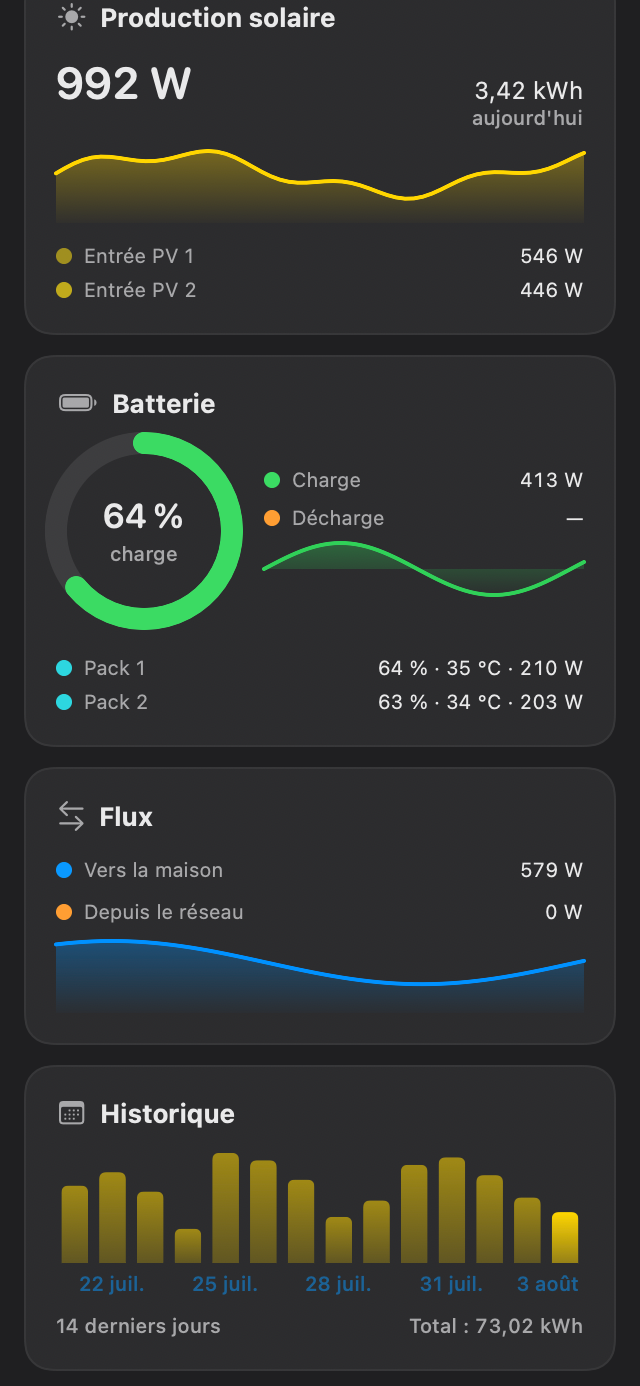
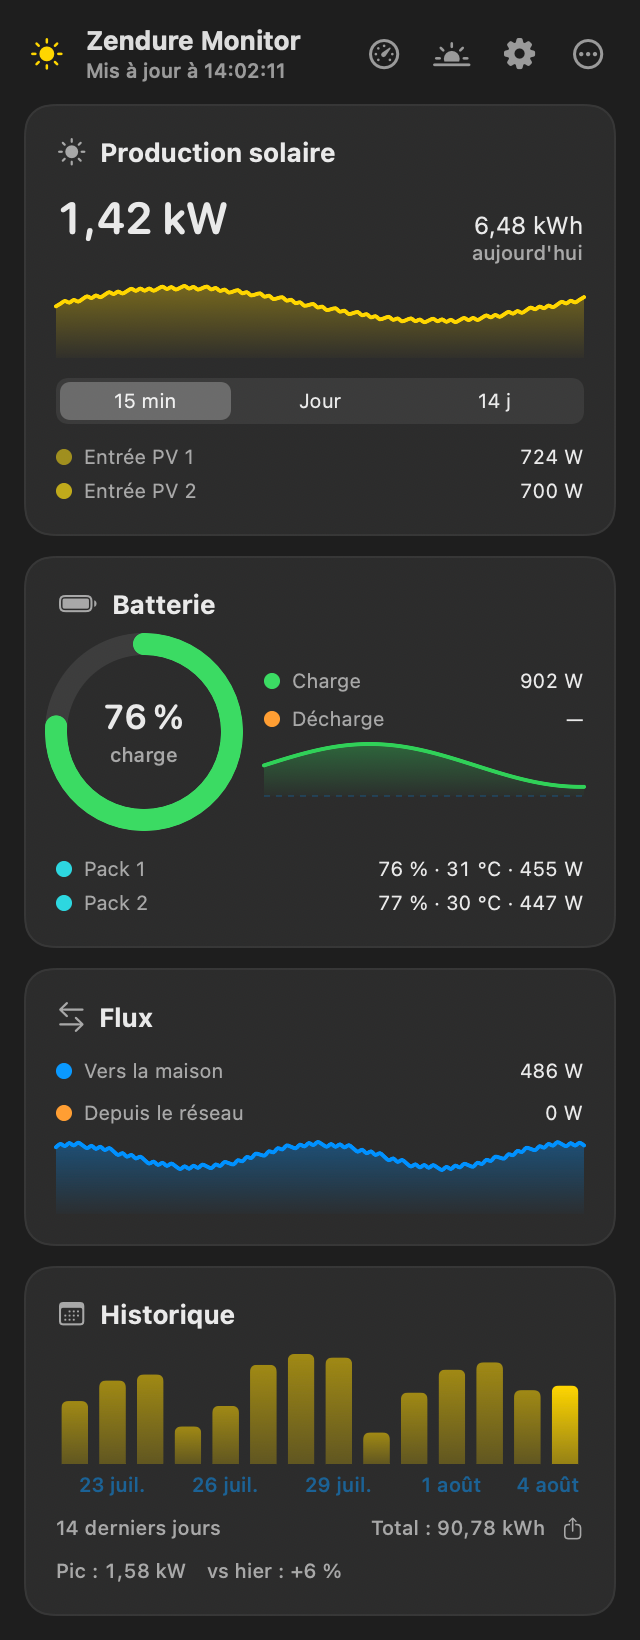
docs: refresh README and landing page, regenerate screenshots, add Sun window shots
- new screenshots rendered from realistic mock data (ImageRenderer
  harness): Juicy-style panel light/dark, hub-centric dashboard, and the
  new Sun window (docs/sun.png)
- README: 'New in 1.5' summary, Sun window section, updated source
  layout with tests/CI, roadmap v1.5 done + v1.6/v2.0 outlook
- landing page: feature cards for the period selector/stats, energy-flow
  dashboard and Sun window, new screenshots section
- split SunView into SunView + SunContent (ScrollView interiors are not
  renderable by ImageRenderer - same pattern as DashboardContent)

diff --git a/docs/index.html b/docs/index.html
@@ -149,8 +149,8 @@
   <p class="fineprint">Free &amp; open source (MIT) · macOS 14+ · signed &amp; notarized DMG · Sparkle auto-updates · 100% local</p>
 
   <figure class="shot">
-    <img src="panel-dark.png" alt="Zendure Monitor panel in dark theme: solar production, battery state of charge with a ring gauge, output to the home, grid input and per-MPPT PV detail">
-    <figcaption>Click the menu bar item for the full picture — production, state of charge, energy flows and per-MPPT detail.</figcaption>
+    <img src="panel-dark.png" alt="Zendure Monitor panel in dark theme: header with icon actions, solar production with a period selector, battery state of charge with a ring gauge, energy flows and 14-day history">
+    <figcaption>Click the menu bar item for the full picture — production, state of charge, energy flows, history and stats.</figcaption>
   </figure>
 </header>
 
@@ -167,7 +167,20 @@
     <div class="card">
       <h3>📊 The full panel</h3>
       <p>Battery state of charge, charge and discharge power, output to the home, grid input,
-      per-MPPT PV input, today's solar energy, and per-pack SOC and temperature.</p>
+      per-MPPT PV input, today's solar energy, per-pack SOC and temperature — with a
+      15 min / day / 14 days selector, daily peak and a vs-yesterday comparison.</p>
+    </div>
+    <div class="card">
+      <h3>🔀 Energy-flow dashboard</h3>
+      <p>A dashboard window with a live diagram: the SolarFlow at the center, panels, batteries,
+      public grid, home and the off-grid outlet around it. Links animate only when energy
+      actually flows, with the wattage on each link — plus savings estimates in € and CO₂.</p>
+    </div>
+    <div class="card">
+      <h3>🌅 Sun window</h3>
+      <p>Sunrise, sunset, solar noon and elevation computed locally (NOAA algorithm — nothing
+      leaves your Mac), the sun's path overlaid with today's production, and a clear-sky
+      theoretical output based on your panels' peak power.</p>
     </div>
     <div class="card">
       <h3>🧩 macOS widget</h3>
@@ -185,11 +198,25 @@
       multi-day trends, whatever you feel like plotting yourself.</p>
     </div>
     <div class="card">
-      <h3>🔔 Low-battery alerts</h3>
-      <p>An optional notification when the state of charge drops below a threshold you choose.
-      Plus launch at login, a theme override, and a UI localized in French and English.</p>
+      <h3>🔔 Smart notifications</h3>
+      <p>Optional alerts: battery low or full, unexpected grid draw while the sun is shining, and
+      daily production records. Plus launch at login, a theme override, an upfront permissions
+      check, and a UI localized in French and English.</p>
     </div>
   </div>
+</section>
+
+<section class="wrap">
+  <h2>The <span class="em">dashboard</span> and the Sun window</h2>
+  <p class="lead">A dedicated window for the whole picture — and another one for the sun itself.</p>
+  <figure class="shot" style="max-width:760px">
+    <img src="dashboard.png" alt="Zendure Monitor dashboard: hub-centric energy-flow diagram with the SolarFlow at the center and panels, batteries, public grid, home and off-grid outlet as peripherals, plus production, battery, device and history cards">
+    <figcaption>The energy-flow diagram: links animate only when energy actually flows, with live wattage.</figcaption>
+  </figure>
+  <figure class="shot" style="max-width:520px; margin-top:32px">
+    <img src="sun.png" alt="Zendure Monitor Sun window: local ephemerides (sunrise, sunset, solar noon, elevation), the sun path overlaid with today's production, and a clear-sky theoretical output estimate">
+    <figcaption>The Sun window — 100% local NOAA ephemerides, today's production on the sun's path, theoretical output.</figcaption>
+  </figure>
 </section>
 
 <section class="wrap">

diff --git a/Sources/SunView.swift b/Sources/SunView.swift
@@ -4,6 +4,20 @@ import SwiftUI
 /// la production du jour, et productible théorique ciel clair. Séparée du
 /// tableau de bord — qui reste un tableau de bord.
 struct SunView: View {
+    var body: some View {
+        ScrollView {
+            SunContent()
+        }
+        .frame(minWidth: 480, idealWidth: 540, minHeight: 560, idealHeight: 680)
+        .navigationTitle(Text("Zendure Monitor — Soleil"))
+        .onAppear { WindowPolicy.retain() }
+        .onDisappear { WindowPolicy.release() }
+    }
+}
+
+/// Contenu de la fenêtre Soleil, séparé du ScrollView pour rester rendable
+/// hors fenêtre (ImageRenderer ne rend pas l'intérieur d'un ScrollView).
+struct SunContent: View {
     @EnvironmentObject var monitor: Monitor
     @AppStorage("sunLatitude") private var latitude: Double = 0
     @AppStorage("sunLongitude") private var longitude: Double = 0
@@ -12,23 +26,17 @@ struct SunView: View {
     private var configured: Bool { latitude != 0 || longitude != 0 }
 
     var body: some View {
-        ScrollView {
-            TimelineView(.periodic(from: .now, by: 60)) { timeline in
-                let sun = SunCalc.compute(at: timeline.date, latitude: latitude, longitude: longitude)
-                VStack(spacing: 14) {
-                    SunCard()
-                    if configured {
-                        sunProductionCard(sun, now: timeline.date)
-                        theoreticalCard(sun)
-                    }
+        TimelineView(.periodic(from: .now, by: 60)) { timeline in
+            let sun = SunCalc.compute(at: timeline.date, latitude: latitude, longitude: longitude)
+            VStack(spacing: 14) {
+                SunCard()
+                if configured {
+                    sunProductionCard(sun, now: timeline.date)
+                    theoreticalCard(sun)
                 }
-                .padding(16)
             }
+            .padding(16)
         }
-        .frame(minWidth: 480, idealWidth: 540, minHeight: 560, idealHeight: 680)
-        .navigationTitle(Text("Zendure Monitor — Soleil"))
-        .onAppear { WindowPolicy.retain() }
-        .onDisappear { WindowPolicy.release() }
     }
 
     // MARK: - Course du soleil × production

diff --git a/README.md b/README.md
@@ -12,7 +12,9 @@ A tiny macOS menu bar app that shows the **live solar production of a Zendure So
 
 Click the icon for the details: battery state of charge, charge/discharge power, per-pack SOC/temperature, output to home, grid input, per-MPPT PV input, and today's solar energy.
 
-New in 1.4: a **dashboard window** (animated energy-flow diagram, device temperature/WiFi/limits, per-pack detail, richer history) and an optional **24/7 collector** (`Scripts/collector/`) for an always-on Mac, so daily history no longer depends on this Mac's uptime.
+New in 1.5: a redesigned panel (header with icon actions, period selector 15 min / day / 14 days, peak & vs-yesterday stats), a **hub-centric energy-flow diagram** (SolarFlow at the center; panels, batteries, public grid, home and the off-grid outlet as peripherals — links animate only when energy actually flows, with live wattage), a dedicated **Sun window** (local NOAA ephemerides, sun path overlaid with today's production, clear-sky theoretical output), **savings estimates** (configurable €/kWh and g CO₂/kWh), extra opt-in notifications (battery full, unexpected grid draw, production record), an upfront **permissions check** (local network / location / notifications), unit tests and a GitHub Actions CI.
+
+New in 1.4: a **dashboard window** and an optional **24/7 collector** (`Scripts/collector/`) for an always-on Mac, so daily history no longer depends on this Mac's uptime.
 
 New in 1.3: a **macOS widget** (small/medium), a **battery control tab** (AC mode, output/charge limits via `POST /properties/write`) and **CSV export** of the production history.
 
@@ -24,9 +26,13 @@ Options: choose what the menu bar shows (solar W, battery %, home W — or icon 
 |:---:|:---:|
 | ![Panel, light theme](docs/panel-light.png) | ![Panel, dark theme](docs/panel-dark.png) |
 
-**Dashboard window** — animated energy-flow diagram and every indicator the local API exposes:
+**Dashboard window** — hub-centric animated energy-flow diagram and every indicator the local API exposes:
 
 ![Dashboard](docs/dashboard.png)
+
+**Sun window** — local ephemerides (NOAA algorithm, nothing leaves the Mac), the sun's path overlaid with today's production, and a clear-sky theoretical output estimate:
+
+![Sun window](docs/sun.png)
 
 ## Supported hardware
 
@@ -102,16 +108,23 @@ Pure Swift / SwiftUI, no third-party dependency besides Sparkle. Generated with 
 
 ```
 Sources/
-  ZendureMonitorApp.swift   @main — MenuBarExtra (LSUIElement agent app) + Settings scene
-  Components/               reusable card/gauge/sparkline views (Swift Charts), shared
-                            design language with the MacInside app
-  Monitor.swift             @MainActor ObservableObject: async polling loop (2–60 s,
-                            URLSession, 5 s timeout), UserDefaults persistence, W/kW formatting
+  ZendureMonitorApp.swift   @main — MenuBarExtra (LSUIElement agent app), Settings scene,
+                            dashboard & Sun windows, shared Dock activation policy
+  Components/               reusable card/gauge/sparkline views (Swift Charts), the energy-flow
+                            diagram and the Sun card — shared design language with MacInside
+  Monitor.swift             @MainActor ObservableObject: async polling loop (2–60 s, URLSession,
+                            5 s timeout), daily curve/peak persistence, savings, notifications
   DeviceState.swift         zenSDK payload model + tolerant JSONSerialization parser
   Discovery.swift           Bonjour browser (_zendure._tcp + _http._tcp) resolving hostnames
-  MenuView.swift            dropdown panel (production, SOC, flows, per-MPPT detail)
-  SettingsView.swift        host/IP, poll interval, network scan, connection test
+  MenuView.swift            dropdown panel (header with icon actions, cards, period selector)
+  DashboardView.swift       dashboard window (flow diagram + full indicator cards)
+  SunView.swift             Sun window (ephemerides, sun path × production, theoretical output)
+  SettingsView.swift        tabs: device, display, sun, notifications, control, remote, general
+  LocationFetcher.swift     one-shot CoreLocation fix to prefill the sun position
+  PermissionsStatus.swift   upfront permissions check (local network, location, notifications)
+  Shared/                   Format, SunCalc (NOAA), widget snapshot — also compiled into tests
   Updater.swift             Sparkle SPUStandardUpdaterController wiring
+Tests/                      unit tests (parser, SunCalc, Format) — run in CI on every PR
 ```
 
 Design choices:
@@ -168,6 +181,9 @@ open build/Build/Products/Debug/ZendureMonitor.app
 - [x] v1.3 — macOS widget (App Group snapshot), battery control tab (`POST /properties/write`), CSV export of the history
 - [x] v1.4 — dashboard window with animated energy-flow diagram; optional 24/7 collector (LaunchAgent + SQLite + JSON API) feeding complete history
 - [x] v1.2 — multi-day production history (daily kWh bar chart)
+- [x] v1.5 — hub-centric flow diagram (batteries, grid, home, off-grid outlet as peripherals), Sun window (local ephemerides + production overlay + theoretical output), Juicy-style panel with period selector and stats, savings estimates (€/CO₂), extra opt-in notifications, permissions check, unit tests + GitHub Actions CI
+- [ ] v1.6 — large widget (14-day histogram), Chinese localization, reorderable cards, weather in the Sun window
+- [ ] v2.0 — off-peak/peak-hours optimizer (local scheduler via `POST /properties/write`)
 
 ## Acknowledgements
 
